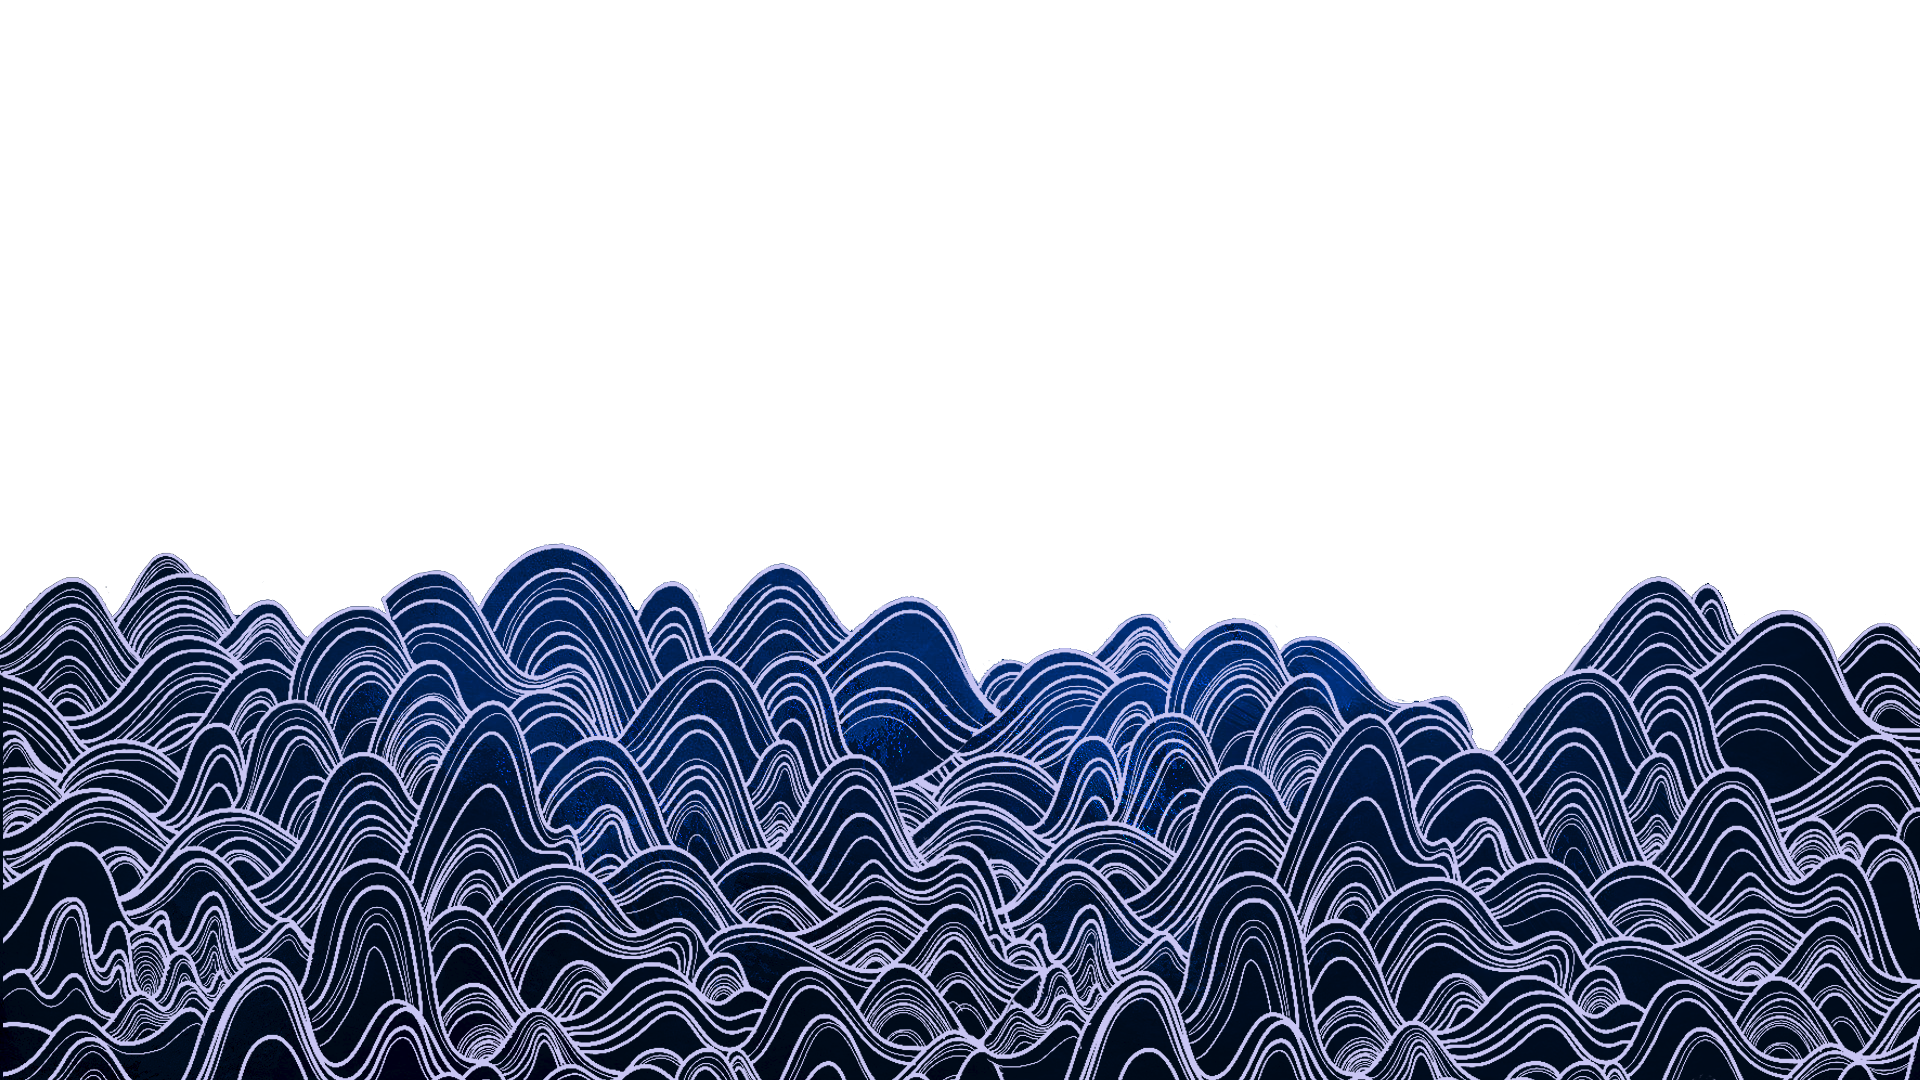
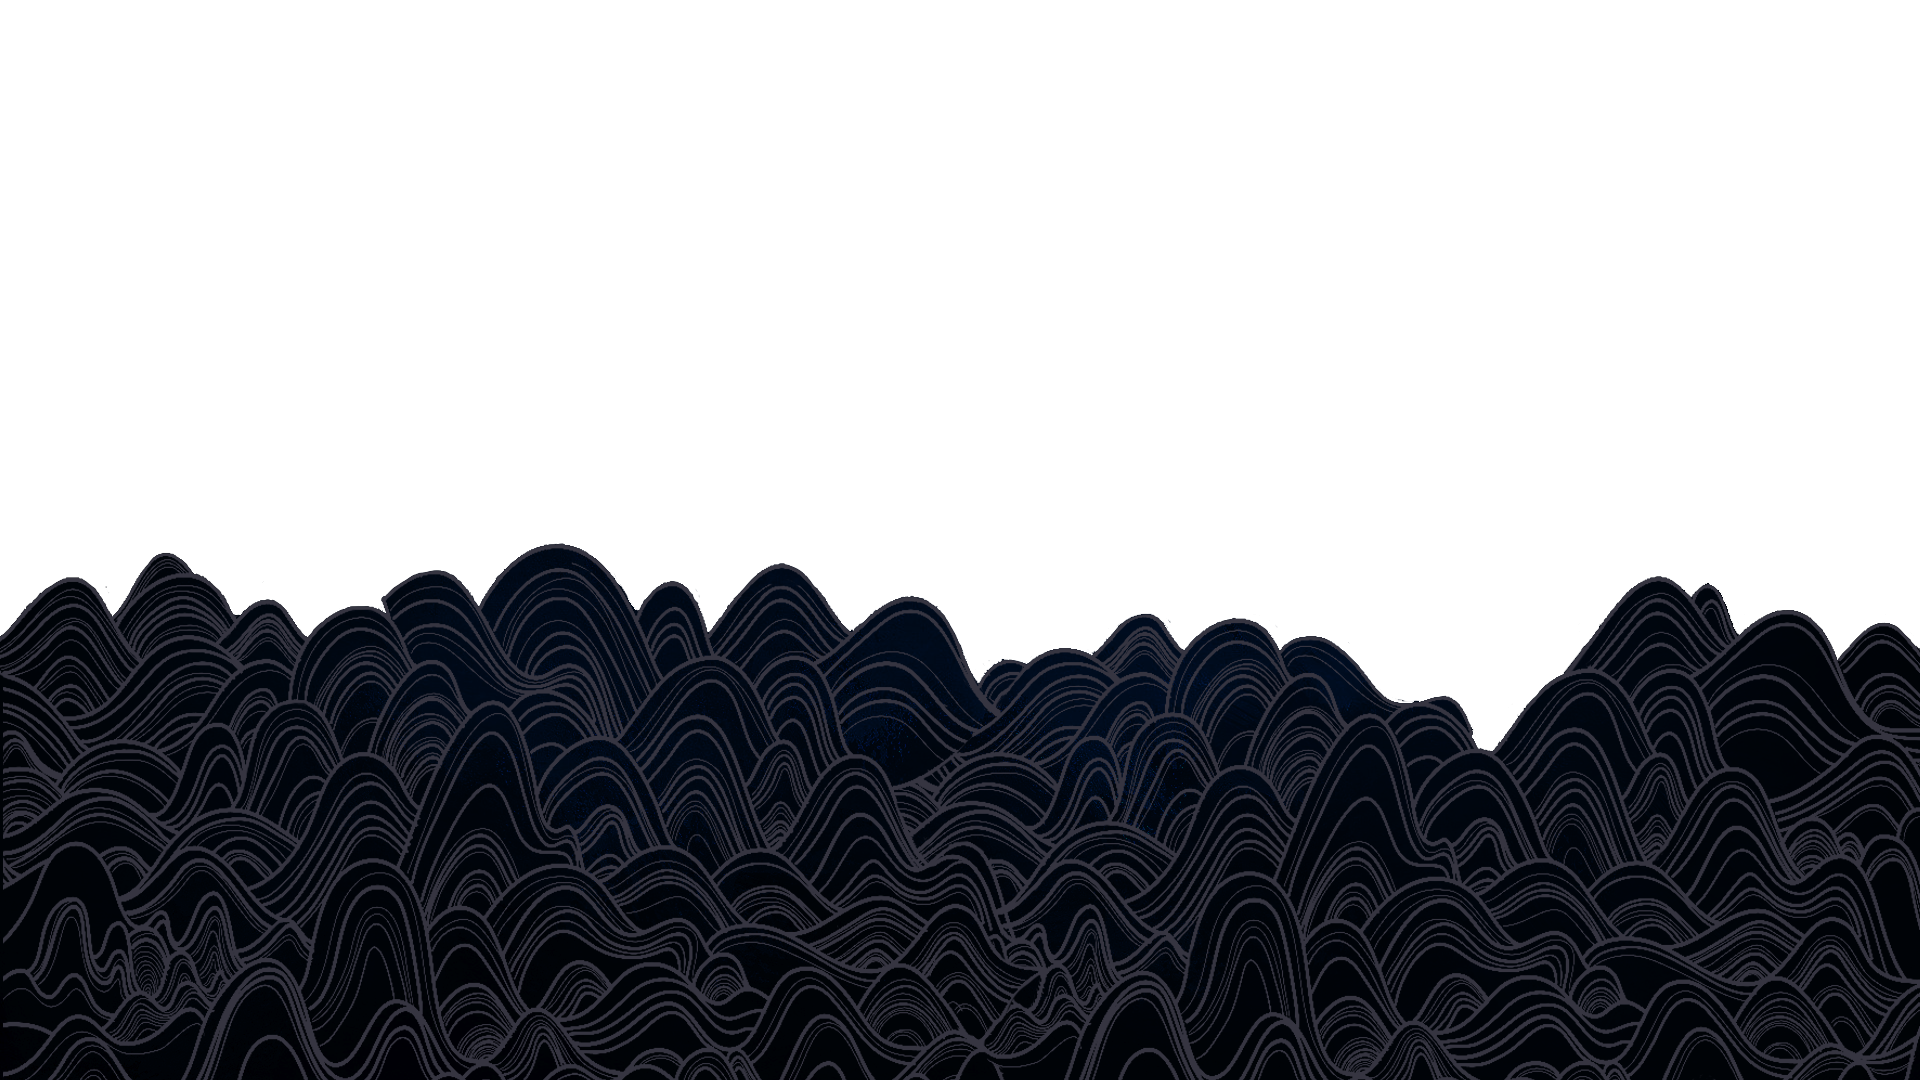
//location mount 수정

diff --git a/css/sub-kbg/sub-location.css b/css/sub-kbg/sub-location.css
@@ -20,7 +20,13 @@ section.sub-location .mount {
   bottom: 0;
   width: 100%;
   height: 70%;
-  opacity: 0.3;
+  opacity: 1;
+}
+@media screen and (max-width: 550px) {
+  section.sub-location .mount {
+    height: 50%;
+    max-width: 500px;
+  }
 }
 section.sub-location .left {
   position: absolute;
@@ -52,7 +58,7 @@ section.sub-location .texture {
   position: absolute;
   opacity: 0.1;
 }
-@media screen and (max-width: 880px) {
+@media screen and (max-width: 950px) {
   section.sub-location .sub-title-wrap-center {
     transform: translateY(-50%);
   }

diff --git a/css/sub-kbg/sub-location.scss b/css/sub-kbg/sub-location.scss
@@ -17,7 +17,11 @@ section.sub-location {
   bottom: 0;
   width: 100%;
   height: 70%;
-  opacity: 0.3;
+  opacity: 1;
+  @media screen and (max-width:550px){
+    height: 50%;
+    max-width: 500px;
+  }
 }
 
   .left{
@@ -48,7 +52,7 @@ section.sub-location {
   }
 /* ---------------------------------------------------------------- */
 .sub-title-wrap-center{
-  @media screen and (max-width:880px){
+  @media screen and (max-width:950px){
     transform: translateY(-50% ,);
   }
 

diff --git a/sub-kbg/sub-visual-kbg.php b/sub-kbg/sub-visual-kbg.php
@@ -15,8 +15,8 @@
       <!--건청궁·향원정에 이르기까지 경복궁 별빛야행에서만
       허락된 경복궁 북측 권역으로의 발걸음은 고궁의
       고즈넉함을 온전히 느끼며,  -->
-      경복궁만이 지닌 새로운
-      아름다움을 경험하는 특별한 감동을 선사할 것입니다.
+      경복궁만이 지닌 새로운 아름다움을 <br>
+      경험하는 특별한 감동을 선사할 것입니다.
     </p>
   </div><!-- sub-title-wrap -->
 
